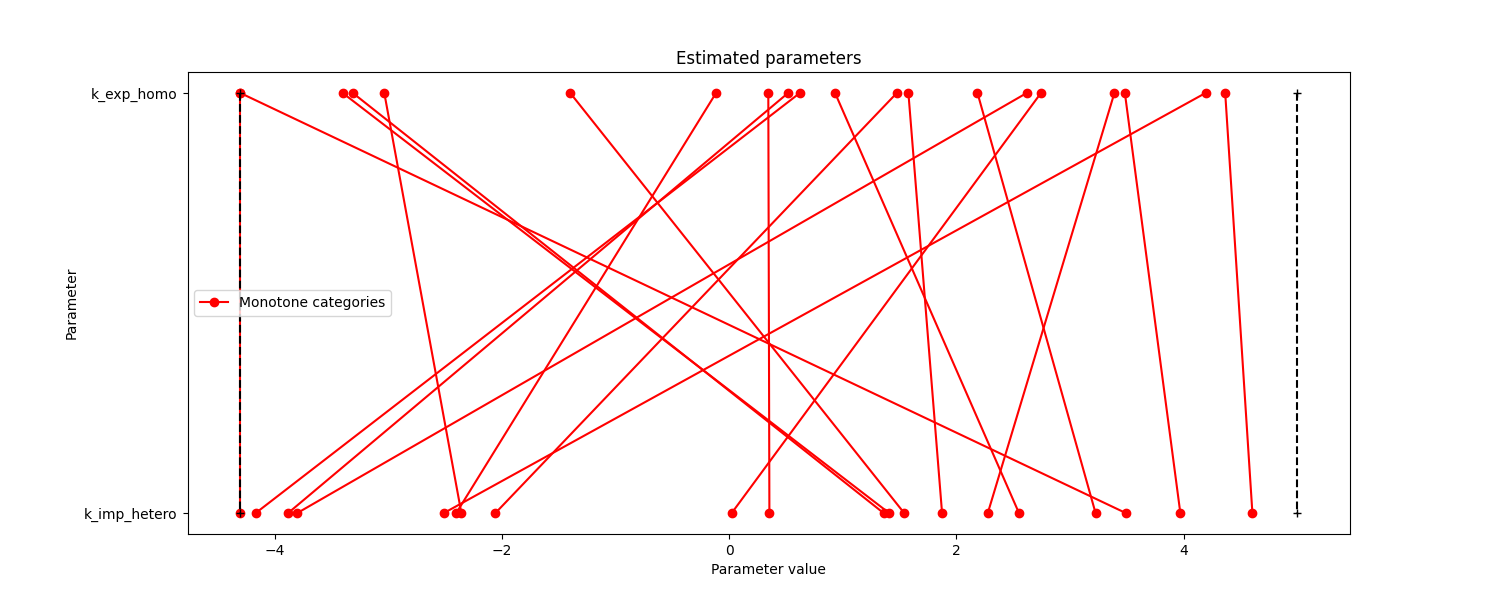
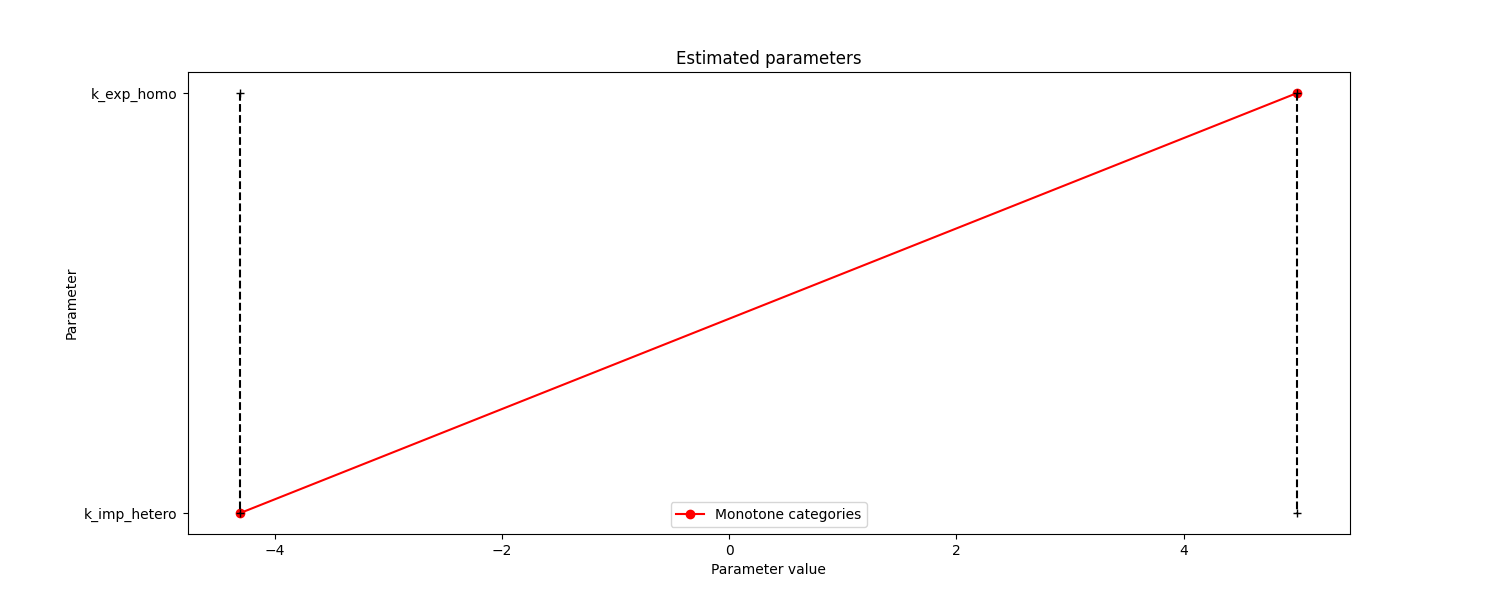
Implement quantitative data
Kind of useless, waste. Pypesto already has this functionality. But commiting for completeness...

diff --git a/pypesto/hierarchical/optimal_scaling_problem.py b/pypesto/hierarchical/optimal_scaling_problem.py
@@ -15,39 +15,42 @@ class OptimalScalingProblem(InnerProblem):
     def __init__(self,
                  xs: List[InnerParameter],
                  data: List[np.ndarray],
+                 quantitative_data: pd.DataFrame,
                  hard_constraints: pd.DataFrame):
         super().__init__(xs, data)
         self.hard_constraints = hard_constraints
+        self.quantitative_data = quantitative_data
         self.groups = {}
 
         for idx, gr in enumerate(self.get_groups_for_xs(InnerParameter.OPTIMALSCALING)):
-            self.groups[gr] = {}
-            xs = self.get_xs_for_group(gr)
-            self.groups[gr]['num_categories'] = len(xs)
-            self.groups[gr]['num_datapoints'] = np.sum([np.sum([np.sum(ixs) for ixs in x.ixs]) for x in xs])
+            if(gr not in quantitative_data.group.values): 
+                self.groups[gr] = {}
+                xs = self.get_xs_for_group(gr)
+                self.groups[gr]['num_categories'] = len(xs)
+                self.groups[gr]['num_datapoints'] = np.sum([np.sum([np.sum(ixs) for ixs in x.ixs]) for x in xs])
 
-            self.groups[gr]['num_inner_params'] = self.groups[gr]['num_datapoints'] + \
-                                                  2 * self.groups[gr]['num_categories']
+                self.groups[gr]['num_inner_params'] = self.groups[gr]['num_datapoints'] + \
+                                                    2 * self.groups[gr]['num_categories']
 
-            self.groups[gr]['num_constr_full'] = 2 * self.groups[gr]['num_datapoints'] + \
-                                                 2 * self.groups[gr]['num_categories']  # - 1
+                self.groups[gr]['num_constr_full'] = 2 * self.groups[gr]['num_datapoints'] + \
+                                                    2 * self.groups[gr]['num_categories']  # - 1
 
-            self.groups[gr]['lb_indices'] = \
-                list(range(self.groups[gr]['num_datapoints'],
-                           self.groups[gr]['num_datapoints'] + self.groups[gr]['num_categories']))
+                self.groups[gr]['lb_indices'] = \
+                    list(range(self.groups[gr]['num_datapoints'],
+                            self.groups[gr]['num_datapoints'] + self.groups[gr]['num_categories']))
 
-            self.groups[gr]['ub_indices'] = \
-                list(range(self.groups[gr]['num_datapoints'] + self.groups[gr]['num_categories'],
-                           self.groups[gr]['num_inner_params']))
+                self.groups[gr]['ub_indices'] = \
+                    list(range(self.groups[gr]['num_datapoints'] + self.groups[gr]['num_categories'],
+                            self.groups[gr]['num_inner_params']))
 
-            self.groups[gr]['cat_ixs'] = {}
-            self.get_cat_indices(gr, xs)
+                self.groups[gr]['cat_ixs'] = {}
+                self.get_cat_indices(gr, xs)
 
-            self.groups[gr]['C'] = self.initialize_c(gr, xs)
+                self.groups[gr]['C'] = self.initialize_c(gr, xs)
 
-            self.groups[gr]['W'] = self.initialize_w(gr)
+                self.groups[gr]['W'] = self.initialize_w(gr)
 
-            self.groups[gr]['Wdot'] = self.initialize_w(gr)
+                self.groups[gr]['Wdot'] = self.initialize_w(gr)
 
     @staticmethod
     def from_petab_amici(
@@ -116,6 +119,19 @@ class OptimalScalingProblem(InnerProblem):
              np.zeros(2 * self.groups[gr]['num_categories'])])
         )
         return weights
+    
+    def get_w_for_quantitative(self, y_sim_all):
+        weights = np.diag(
+            np.ones(len(y_sim_all)) / (np.sum(np.abs(y_sim_all)) + 1e-8)
+        )
+        return weights
+
+    def get_wdot_for_quantitative(self, y_sim_all, sy_all):
+        weights = np.diag(
+            np.ones(len(y_sim_all)) * (
+                        -1 * np.sum(sy_all) / ((np.sum(np.abs(y_sim_all)) + 1e-8) ** 2))
+        )
+        return weights
 
     def get_d(self, gr, xs, y_sim_all, eps):
         # if 'minGap' not in options:
@@ -182,6 +198,9 @@ class OptimalScalingProblem(InnerProblem):
     def get_hard_constraints_for_group(self, group: float):
         return self.hard_constraints[self.hard_constraints['group'].astype(float)==group]
 
+    def get_quantitative_data_for_group(self, group: float):
+        return self.quantitative_data[self.quantitative_data['group'].astype(float)==group]
+
 
 
 def qualitative_inner_problem_from_petab_problem(
@@ -190,6 +209,9 @@ def qualitative_inner_problem_from_petab_problem(
         edatas: List['amici.ExpData']):
     # get hard constrained measurements from measurement.df
     hard_constraints=get_hard_constraints(petab_problem)
+
+    #get quantitative data from measurement.df
+    quantitative_data = get_quantitative_data(petab_problem.measurement_df, amici_model)
 
     print("Evo hard cons: \n", hard_constraints)
     # inner parameters
@@ -213,7 +235,7 @@ def qualitative_inner_problem_from_petab_problem(
     for par in inner_parameters:
         par.ixs = ix_matrices[par.id]
 
-    return OptimalScalingProblem(inner_parameters, edatas, hard_constraints)
+    return OptimalScalingProblem(inner_parameters, edatas, quantitative_data, hard_constraints)
 
 def get_hard_constraints(petab_problem: petab.Problem):
     measurement_df = petab_problem.measurement_df
@@ -234,3 +256,18 @@ def get_hard_constraints(petab_problem: petab.Problem):
                                     'seen': str(group) + '&' + str(category)}, ignore_index=True)
                 #print(hard_cons_df, sep='\n')
     return hard_cons_df
+
+def get_quantitative_data(measurement_df: pd.DataFrame, amici_model: 'amici.Model'):
+    observable_ids = amici_model.getObservableIds()
+    quantitative_data = pd.DataFrame(columns=['observableId', 'simulationConditionId', 'measurement', 'group'])
+    measurement_df = measurement_df[pd.isnull(measurement_df['observableParameters'])]
+    
+    for index, row in measurement_df.iterrows():
+        group = observable_ids.index(row['observableId']) + 1
+        quantitative_data = quantitative_data.append({'observableId': row["observableId"],
+                                    'simulationConditionId': row['simulationConditionId'],
+                                    'measurement': row["measurement"],
+                                    'group' : float(group) }, ignore_index=True)
+    return quantitative_data
+
+

diff --git a/pypesto/hierarchical/optimal_scaling_solver.py b/pypesto/hierarchical/optimal_scaling_solver.py
@@ -3,6 +3,7 @@ import warnings
 from typing import Dict, List, Tuple
 
 import numpy as np
+from numpy.lib.function_base import gradient
 import pandas as pd
 
 from ..optimize import Optimizer
@@ -64,6 +65,7 @@ class OptimalScalingInnerSolver(InnerSolver):
         #print("EVO SIM:", sim)
         for gr in problem.get_groups_for_xs(InnerParameter.OPTIMALSCALING):
             xs = problem.get_xs_for_group(gr)
+            #Hard constraints group:
             if (gr in problem.hard_constraints.group.values):
                 #print(gr, "Tu sam")
                 hard_constraints = problem.get_hard_constraints_for_group(gr)
@@ -73,8 +75,18 @@ class OptimalScalingInnerSolver(InnerSolver):
                 surrogate_opt_results_from_hard_constraints = {'success' : True, 'fun' : obj}
                 optimal_surrogates.append(surrogate_opt_results_from_hard_constraints)
                 continue
+            #Quantitative data group:
+            elif(gr in problem.quantitative_data.group.values):
+                #print(gr, "Tu sam")
+                quantitative_data = problem.get_quantitative_data_for_group(gr)
+                obj = calculate_obj_fun_for_quantitative_data(sim, quantitative_data)
+                obj_fun_from_quantitative_data = {'success' : True, 'fun' : obj}
+                optimal_surrogates.append(obj_fun_from_quantitative_data)
+                continue
+            #Qualitative data group:
             #print("Running for group: ", gr)
             surrogate_opt_results = optimize_surrogate_data(xs, sim, self.options)
+            #print(surrogate_opt_results['x'])
             optimal_surrogates.append(surrogate_opt_results)
         return optimal_surrogates
 
@@ -112,6 +124,7 @@ class OptimalScalingInnerSolver(InnerSolver):
                             snllh,
                             ):
         #breakpoint()
+        #print(sy)
         condition_map_sim_var = parameter_mapping[0].map_sim_var
         #print(condition_map_sim_var)
         par_sim_ids = list(amici_model.getParameterIds())
@@ -124,6 +137,8 @@ class OptimalScalingInnerSolver(InnerSolver):
             if par_opt.startswith('optimalScaling_'):
                 continue
             #par_sim_idx = par_sim_ids.index(par_sim) ZEBO REPLACE
+            #Umjesto nesto, samo gledaj prvih nekoliko, jer su oni parametri koji su interesantni?
+            #K3 i K5?
             par_sim_idx += 1
             par_opt_idx = par_opt_ids.index(par_opt)
             grad = 0.0
@@ -150,19 +165,35 @@ class OptimalScalingInnerSolver(InnerSolver):
 
                     grad += df_dtheta
                     continue
-
+                elif(gr in problem.quantitative_data.group.values):
+                    quantitative_data = problem.get_quantitative_data_for_group(gr)
+                    measurements=quantitative_data.measurement.values
+                    sim_all = get_sim_all_for_quantitative(gr, sim)
+                    print("Y sim", sim_all)
+                    print(measurements)
+                    sy_all = get_sy_all_for_quantitative(gr, sy, par_sim_idx)
+                    Weights = problem.get_w_for_quantitative(sim_all)
+                    Weights_dot = problem.get_wdot_for_quantitative(sim_all, sy_all)
+                    res = measurements - sim_all
+                    print(res)
+                    df_dtheta = res.dot(res.dot(Weights_dot) - 2*Weights.dot(sy_all))
+                    
+                    grad += df_dtheta
+                    continue
                 xi = get_xi(gr, problem, x_inner_opt[idx], sim, self.options)
+                print("Evo xi:", xi)
                 sim_all = get_sim_all(problem.get_xs_for_group(gr), sim)
                 sy_all = get_sy_all(problem.get_xs_for_group(gr), sy, par_sim_idx)
-                #print(sim_all)
+                print("A sim", sim_all)
                 #print(sy_all)
+
 
                 problem.groups[gr]['W'] = problem.get_w(gr, sim_all)
                 problem.groups[gr]['Wdot'] = problem.get_wdot(gr, sim_all, sy_all)
 
                 res = np.block([xi[:problem.groups[gr]['num_datapoints']] - sim_all,
                                 np.zeros(problem.groups[gr]['num_inner_params'] - problem.groups[gr]['num_datapoints'])])
-                #print(res)
+                print(res)
                 df_dxi = 2 * problem.groups[gr]['W'].dot(res)
 
                 dy_dtheta = get_dy_dtheta(gr, problem, sy_all)
@@ -352,6 +383,15 @@ def get_sy_all(xs, sy, par_idx):
                 for sim_sy_i in sim_sy:
                     sy_all.append(sim_sy_i)
     return np.array(sy_all)
+    
+def get_sy_all_for_quantitative(gr, sy, par_idx):
+    sy_all = []
+    gr = int(gr) -1
+    for sy_i in sy:
+            sim_sy = sy_i[:, par_idx, gr]
+            for sim_sy_i in sim_sy:
+                sy_all.append(sim_sy_i)
+    return np.array(sy_all)
 
 
 def get_sim_all(xs, sim: List[np.ndarray]) -> list:
@@ -368,6 +408,16 @@ def get_sim_all(xs, sim: List[np.ndarray]) -> list:
     #print("Evo sim all: ", sim_all)
     return sim_all
 
+def get_sim_all_for_quantitative(gr, sim: List[np.ndarray]) -> list:
+    """"Get list of all simulations for quantitative group"""
+    gr = int(gr) - 1
+    sim = np.asarray(sim)
+    sim_temp = sim[:, :, gr]
+    sim_all = np.zeros(sim_temp.size)
+    for i in range(len(sim_temp)):
+        for j in range(len(sim_temp[i])):
+            sim_all[i+j] = sim_temp[i][j]
+    return sim_all
 
 def get_surrogate_all(xs,
                       optimal_scaling_bounds,
@@ -718,3 +768,16 @@ def get_xi_for_hard_constraints(gr,
     xi[problem.groups[gr]['lb_indices']] = np.array(x_lower_all)
     xi[problem.groups[gr]['ub_indices']] = np.array(x_upper_all)
     return xi
+
+def calculate_obj_fun_for_quantitative_data(sim: List[np.ndarray],
+                                           quantitative_data: pd.DataFrame):
+    group = int(quantitative_data.group.values[0])-1
+    sim_all = get_sim_all_for_quantitative(group, sim)
+    measurements=np.asarray(quantitative_data.measurement.values)
+    
+    w = np.sum(np.abs(sim_all)) + 1e-8
+    obj = 0.0
+    for i in range(len(sim_all)):
+        obj += (sim_all[i]- measurements[i]) ** 2
+    obj = np.divide(obj, w)
+    return obj

diff --git a/test/test_hard_constraints.py b/test/test_hard_constraints.py
@@ -48,6 +48,7 @@ def run_optimization(importer, optimizer, history_name, num_starts, min_gap):
     print("Zavrsio sam ovo")
     history_options = pypesto.HistoryOptions(trace_record=True, storage_file=history_name)
     #np.random.seed(num_starts)
+    
     result = pypesto.optimize.minimize(problem,
                                        n_starts=num_starts,
                                        optimizer=optimizer,
@@ -71,8 +72,11 @@ def get_optimizer(optimizer_name):
 def main():
     """Napisi opis..."""
 
-    petab_problem = petab.Problem.from_yaml(
-    '/home/zebo/Documents/GitHub/examples/Boehm_JProteomeRes2014OptimalScaling/Boehm_JProteomeRes2014OptimalScaling.yaml')
+    #petab_problem = petab.Problem.from_yaml(
+    #'/home/zebo/Documents/GitHub/examples/Boehm_JProteomeRes2014OptimalScaling/Boehm_JProteomeRes2014OptimalScaling.yaml')
+
+    #petab_problem = petab.Problem.from_yaml(
+    #'/home/zebo/Documents/GitHub/examples/Boehm_JProteomeRes2014OptimalScaling_quantitative_2/Boehm_JProteomeRes2014OptimalScaling.yaml')
 
    # petab_problem = petab.Problem.from_yaml(
    # '/home/zebo/Documents/GitHub/examples/Boehm_JProteomeRes2014OptimalScaling_HardConstraints/Boehm_JProteomeRes2014OptimalScaling_HardConstraints.yaml')
@@ -83,6 +87,9 @@ def main():
    # petab_problem = petab.Problem.from_yaml(
    # '/home/zebo/Documents/GitHub/examples/Raf_Mitra_NatCom2018OptimalScaling_3CatQual/Raf_Mitra_NatCom2018OptimalScaling_3CatQual.yaml')
     
+    petab_problem = petab.Problem.from_yaml(
+    '/home/zebo/Documents/GitHub/examples/Raf_Mitra_NatCom2018OptimalScaling_3CatQual_quantitative_2/Raf_Mitra_NatCom2018OptimalScaling_3CatQual.yaml')
+
    # petab_problem = petab.Problem.from_yaml(
    # '/home/zebo/Documents/GitHub/examples/Raf_Mitra_NatCom2018OptimalScaling_3CatQual_hard_constraints/Raf_Mitra_NatCom2018OptimalScaling_3CatQual.yaml')
 
@@ -90,7 +97,7 @@ def main():
 
     importer = pypesto.petab.PetabImporter(petab_problem)
     optimizer = get_optimizer('L-BFGS-B')
-    results = run_optimization(importer, optimizer, history_name =f'histories/Boehm_histories/' + f'First_try/history_Raf_' + '_{id}.csv', num_starts=20, min_gap=1e-16)
+    results = run_optimization(importer, optimizer, history_name =f'histories/Boehm_histories/' + f'First_try/history_Boehm_' + '_{id}.csv', num_starts=1, min_gap=1e-16)
 
 
     pypesto.visualize.waterfall([results],
@@ -98,14 +105,14 @@ def main():
                                 scale_y='log10', 
                                 y_limits=2e-17, 
                                 size=(15,6))
-    plt.savefig("plots/waterfall_Boehm.png")
+    plt.savefig("plots/waterfall_Boehm_100.png")
 
     pypesto.visualize.parameters([results],
-                                 parameter_indices = [2,3],
-                                 size=(15,6), 
-                                 legends=['Monotone categories', 'Hard constraints'],
+                                 parameter_indices = [0,1,2,3,4,6],
+                                 size=(22,10), 
+                                 legends=['Monotone categories'],
                                  balance_alpha=True)
-    plt.savefig("plots/parameters_Boehm.png")
+    plt.savefig("plots/parameters_Boehm_100.png")
 
 """
 #running two optimizations to compare waterfall plots

diff --git a/pypesto/hierarchical/quantitative_data.py b/pypesto/hierarchical/quantitative_data.py
@@ -1,0 +1,34 @@
+import logging
+from typing import Any
+
+logger = logging.getLogger(__name__)
+
+
+class QuantitativeData:
+
+    SCALING = 'scaling'
+    OFFSET = 'offset'
+    SIGMA = 'sigma'
+    OPTIMALSCALING = 'qualitative_scaling'
+
+    def __init__(self,
+                 id: str,
+                 condition: str,
+                 measurement: int ,
+                 group: int = None):
+        """
+        Quantitative data
+        ----------
+        id: str
+            Id of the parameter.
+        boring_val: float
+            Value to be used when the parameter is not present (in particular
+            to simulate unscaled observables).
+        """
+        self.id: str = id
+        self.measurement: int = measurement
+        self.condition= condition
+
+        if group is None:
+            raise ValueError("No Parameter group provided.")
+        self.group = group

diff --git a/pypesto/hierarchical/problem.py b/pypesto/hierarchical/problem.py
@@ -49,6 +49,11 @@ class InnerProblem:
 
     def get_groups_for_xs(self, type: str):
         groups = [x.group for x in self.xs.values() if x.type == type]
+        groups = list(set(groups))
+        if hasattr(self, 'quantitative_data'):
+            if not self.quantitative_data.empty:
+                for gr in self.quantitative_data.group.values:
+                    groups.append(gr)
         return list(set(groups))
 
     def get_xs_for_group(self, group: int):
